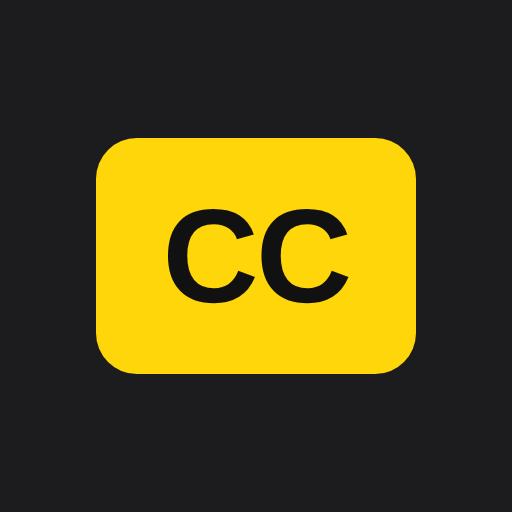
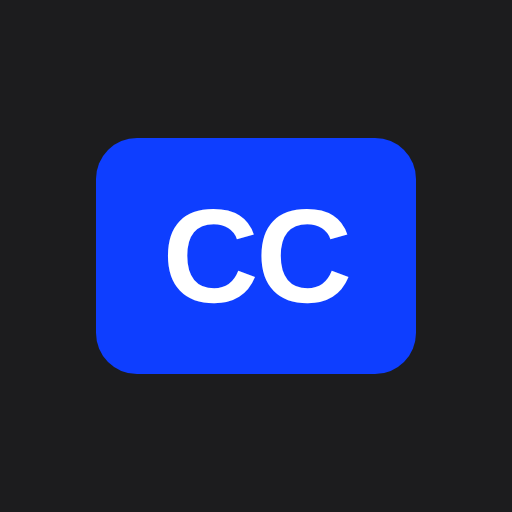
Use brand blue #0e3eff as accent colour
Claude-Session: https://claude.ai/code/session_01BKo8cWxoHjLwxXUxjrHhJ9

Changed region(s): [[0.1875, 0.25, 0.8125, 0.75]]

diff --git a/index.html b/index.html
@@ -24,7 +24,7 @@
   <link rel="preconnect" href="https://fonts.googleapis.com">
   <link rel="preconnect" href="https://fonts.gstatic.com" crossorigin>
   <link rel="stylesheet" href="https://fonts.googleapis.com/css2?family=Montserrat:wght@800;900&display=swap">
-  <link rel="stylesheet" href="app.css?v=4">
+  <link rel="stylesheet" href="app.css?v=5">
 </head>
 <body>
   <header class="bar">
@@ -83,6 +83,6 @@
     </section>
   </main>
 
-  <script type="module" src="js/app.js?v=4"></script>
+  <script type="module" src="js/app.js?v=5"></script>
 </body>
 </html>

diff --git a/js/app.js b/js/app.js
@@ -1,7 +1,7 @@
-import { extractWav } from './audio.js?v=4';
-import { transcribe } from './transcribe.js?v=4';
-import { defaultStyle, groupWords, setChunkText, flatten, chunkAt, drawCaption } from './captions.js?v=4';
-import { renderVideo } from './render.js?v=4';
+import { extractWav } from './audio.js?v=5';
+import { transcribe } from './transcribe.js?v=5';
+import { defaultStyle, groupWords, setChunkText, flatten, chunkAt, drawCaption } from './captions.js?v=5';
+import { renderVideo } from './render.js?v=5';
 
 const $ = id => document.getElementById(id);
 

diff --git a/app.css b/app.css
@@ -5,9 +5,9 @@
   --line: #3a3a3c;
   --text: #ececee;
   --muted: #98989f;
-  --accent: #ffd60a;
-  --accent-text: #1c1c1e;
-  --active: #ffd60a;
+  --accent: #0e3eff;
+  --accent-text: #ffffff;
+  --active: #5577ff;
   color-scheme: dark;
 }
 
@@ -18,9 +18,9 @@
   --line: #dcdce0;
   --text: #1d1d1f;
   --muted: #6e6e75;
-  --accent: #ffd60a;
-  --accent-text: #1d1d1f;
-  --active: #d4a800;
+  --accent: #0e3eff;
+  --accent-text: #ffffff;
+  --active: #0e3eff;
   color-scheme: light;
 }
 

diff --git a/sw.js b/sw.js
@@ -1,4 +1,4 @@
-const CACHE = 'tricaps-v4';
+const CACHE = 'tricaps-v5';
 const SHELL = [
   './', 'index.html', 'app.css', 'manifest.webmanifest',
   'js/app.js', 'js/audio.js', 'js/transcribe.js', 'js/captions.js', 'js/render.js',

diff --git a/js/render.js b/js/render.js
@@ -1,4 +1,4 @@
-import { drawCaption } from './captions.js?v=4';
+import { drawCaption } from './captions.js?v=5';
 
 const MIME_TYPES = [
   'video/mp4;codecs=avc1.640028,mp4a.40.2',
